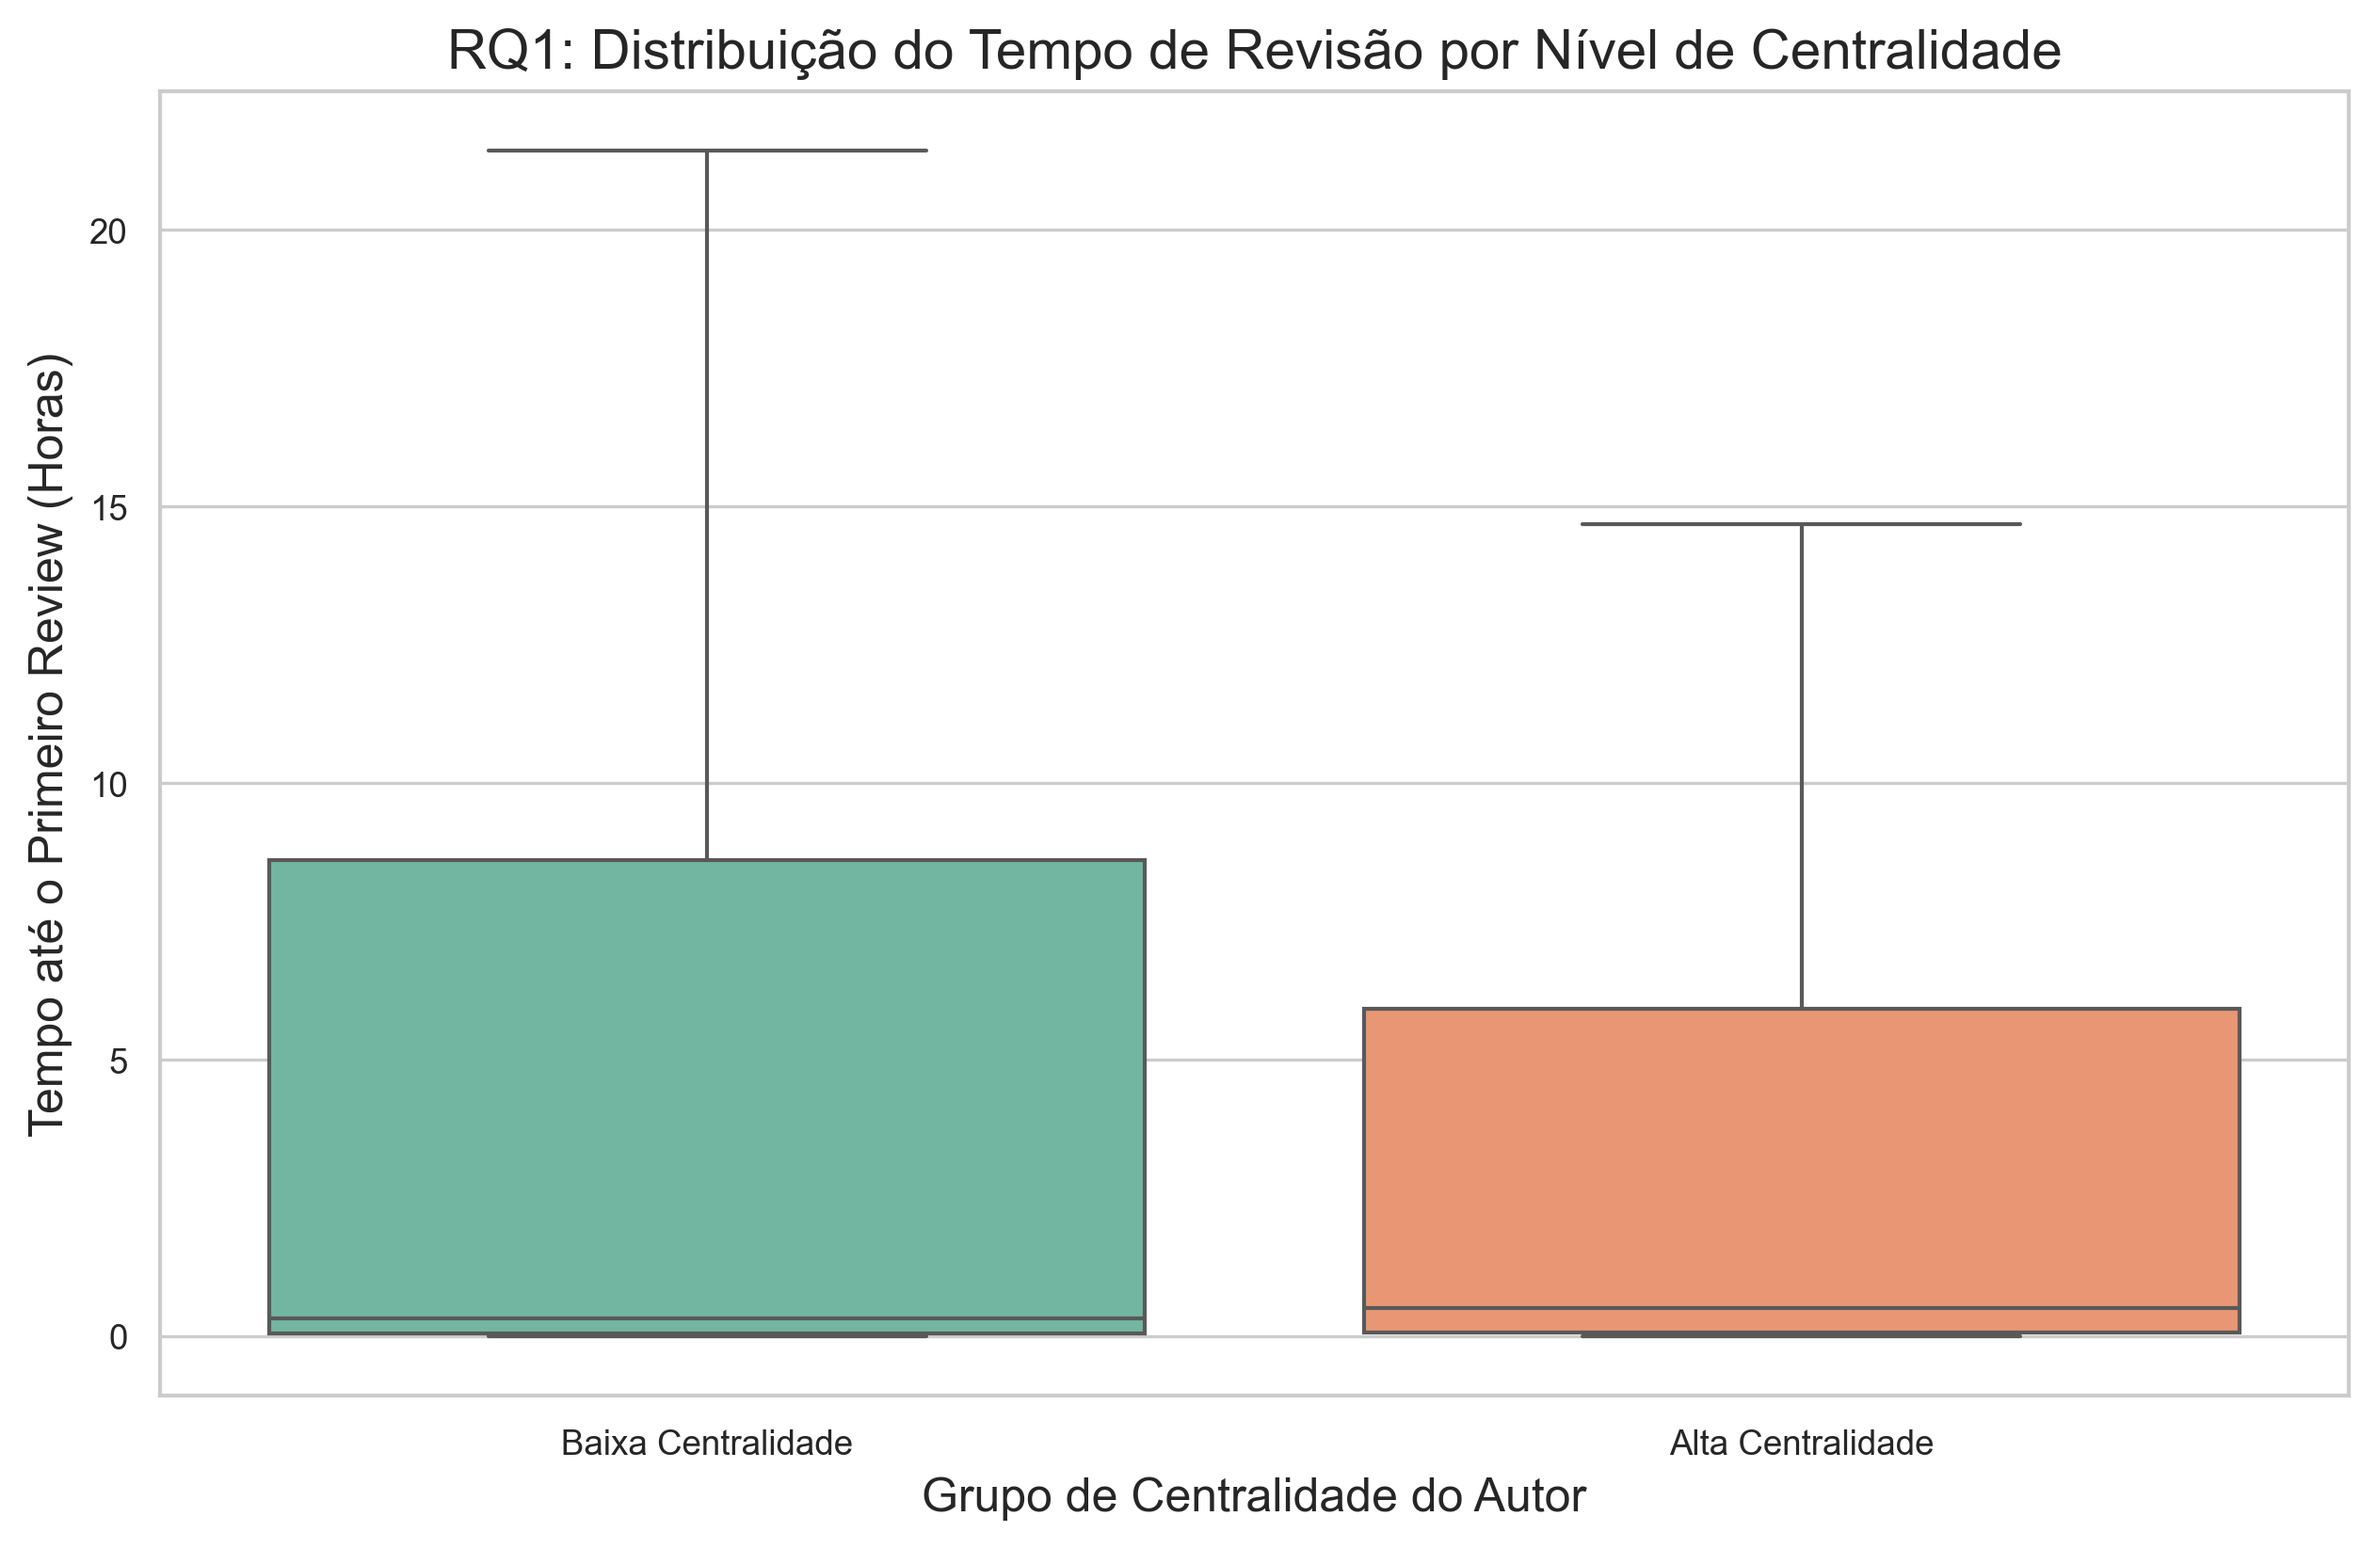
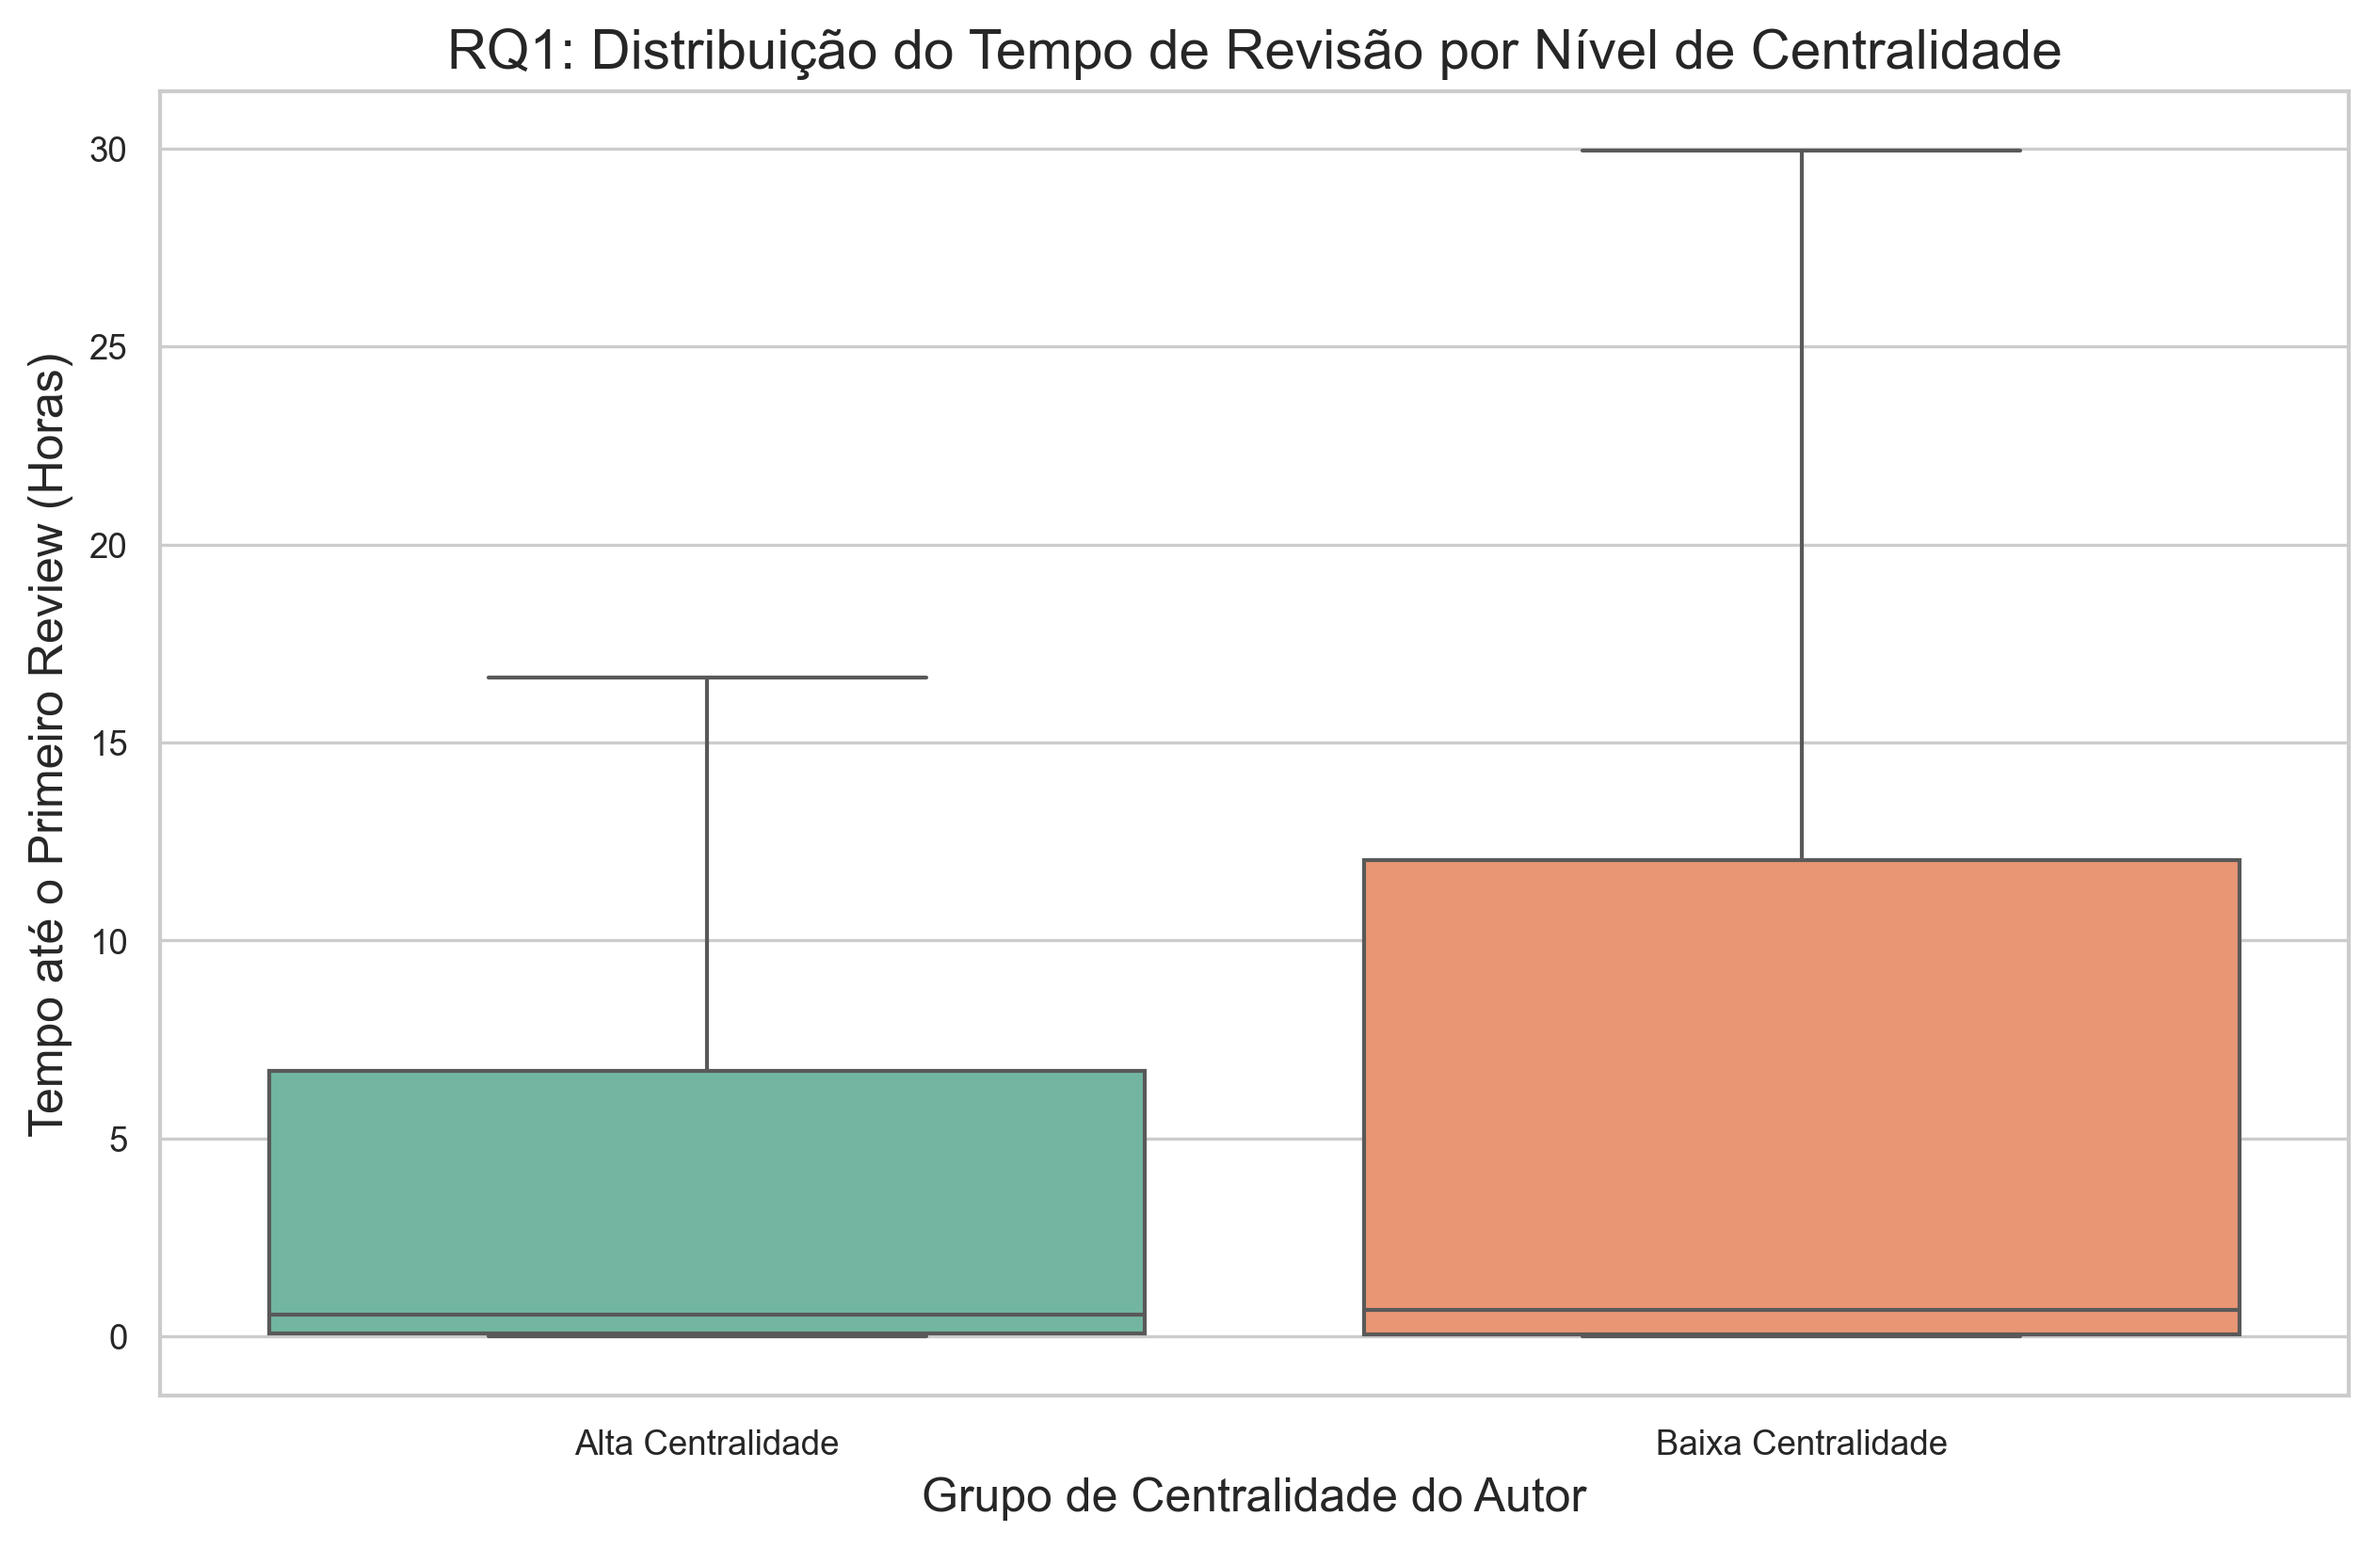
feat(analytics): adiciona plots de medianas e dispersão para defesa das RQs
Resolve pendência de chamada no app.py, inclui métodos plot_rq1_medians, generate_rq2_frequency_table e plot_rq2_scatter. Atualiza os artefatos visuais gerados pela análise estatística.

diff --git a/src/services/visualizer.py b/src/services/visualizer.py
@@ -13,6 +13,67 @@ class DataVisualizer:
         # Configuração estética para publicações científicas
         sns.set_theme(style="whitegrid", context="paper")
 
+    def plot_rq1_medians(self, df):
+        plt.figure(figsize=(10, 6))
+        
+        ax = sns.boxplot(x='centrality_group', y='first_review_latency_hours', 
+                         data=df, showfliers=False, palette='Set2')
+        
+        medians = df.groupby(['centrality_group'])['first_review_latency_hours'].median()
+        
+        for i, median_val in enumerate(medians):
+            ax.text(i, median_val + 1, f'Mediana: {median_val:.1f}h', 
+                    horizontalalignment='center', size='large', color='black', weight='semibold')
+
+        plt.title("RQ1: Foco nas Medianas (Mann-Whitney U Justification)", fontsize=14)
+        plt.ylabel("Latência (Horas) - Outliers Omitidos")
+        plt.xlabel("Grupo de Centralidade")
+        # Correção do diretório aqui
+        plt.savefig(self.figures_dir / "rq1_medians_focus.png", dpi=300)
+        plt.close()
+
+    def generate_rq2_frequency_table(self, df):
+        import numpy as np
+        
+        df_novices = df[df['experience_category'] == 'Novice'].copy()
+        
+        bins = [0, 5, 10, 15, 20, 24, 48, np.inf]
+        labels = ['0-5h', '6-10h', '11-15h', '16-20h', '21-24h', '25-48h', '>48h (Zumbis)']
+        
+        df_novices['time_bin'] = pd.cut(df_novices['first_review_latency_hours'], bins=bins, labels=labels, right=False)
+        
+        freq_table = df_novices['time_bin'].value_counts().reset_index()
+        freq_table.columns = ['Intervalo (Horas)', 'Qtd de PRs']
+        freq_table['Porcentagem (%)'] = (freq_table['Qtd de PRs'] / len(df_novices) * 100).round(2)
+        
+        print("\n📊 Tabela de Frequência (Novatos): Tempos de Revisão")
+        print(freq_table.to_string(index=False))
+
+    def plot_rq2_scatter(self, df):
+        df_filtered = df[df['first_review_latency_hours'] <= 72].copy()
+        
+        plt.figure(figsize=(12, 7))
+        
+        sns.scatterplot(
+            data=df_filtered, 
+            x='author_degree_cent', # Correção do nome da coluna
+            y='first_review_latency_hours', 
+            hue='experience_category',
+            style='experience_category',
+            alpha=0.4, 
+            s=20 
+        )
+        
+        plt.title("RQ2: Dispersão - Centralidade vs Latência (Até 72h)", fontsize=14)
+        plt.ylabel("Latência (Horas)")
+        plt.xlabel("Grau de Centralidade do Autor")
+        plt.legend(title="Experiência do Autor")
+        plt.tight_layout()
+        
+        # Correção do diretório aqui
+        plt.savefig(self.figures_dir / "rq2_scatter_dispersion.png", dpi=300)
+        plt.close()
+
     def generate_analytical_plots(self, input_csv: str = "poc_analytical_dataset.csv"):
         input_path = self.data_dir / input_csv
         if not input_path.exists():
@@ -77,5 +138,12 @@ class DataVisualizer:
         output_rq2 = self.figures_dir / "rq2_experience_moderation.png"
         plt.savefig(output_rq2, dpi=300, bbox_inches='tight')
         plt.close()
+
+        # --- ADICIONE ESTAS 3 LINHAS AQUI ---
+        print("📈 Gerando novos gráficos de detalhamento (Medianas, Dispersão e Tabela)...")
+        self.plot_rq1_medians(df_filtered)
+        self.generate_rq2_frequency_table(df)
+        self.plot_rq2_scatter(df)
+        # ------------------------------------
 
         print(f"✅ Gráficos salvos em: {self.figures_dir}")

diff --git a/src/app.py b/src/app.py
@@ -21,8 +21,8 @@ def run_phase_1():
     fetcher = RepositoryFetcherFactory.create('http')
     manager = RepositoryManager(fetcher)
     
-    print("🚀 Iniciando Prova de Conceito (POC) - Fase 1: 100 Repositórios")
-    poc_repos = manager.fetch_poc_repositories(repos_per_lang=20)
+    print("🚀 Iniciando Prova de Conceito (POC) - Fase 1: 500 Repositórios")
+    poc_repos = manager.fetch_poc_repositories(repos_per_lang=100)
     
     manager.display_results(poc_repos)
     manager.save_consolidated_data(poc_repos, filename="poc_repos_merged_filter.csv")
